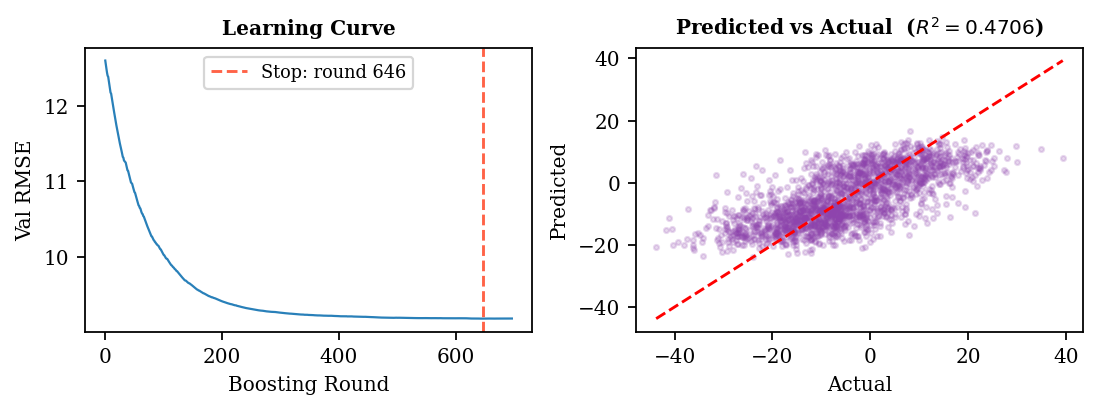
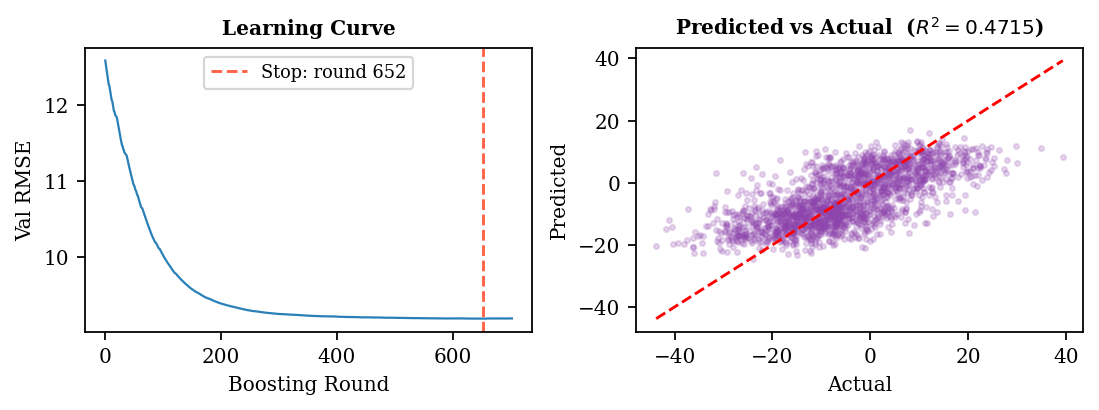
submmiting files

diff --git a/generate_figures.py b/generate_figures.py
@@ -81,7 +81,7 @@ axes[1].scatter(y_val, y_pred, alpha=0.2, s=5, color='#8e44ad')
 lims = [min(y_val.min(), y_pred.min()), max(y_val.max(), y_pred.max())]
 axes[1].plot(lims, lims, 'r--', linewidth=1.3)
 axes[1].set_xlabel('Actual'); axes[1].set_ylabel('Predicted')
-axes[1].set_title(r'Predicted vs Actual  ($R^2=0.4706$)', fontsize=9, fontweight='bold')
+axes[1].set_title(r'Predicted vs Actual  ($R^2=0.4715$)', fontsize=9, fontweight='bold')
 plt.tight_layout(pad=0.8)
 plt.savefig('figC_eval.png', dpi=160, bbox_inches='tight')
 plt.close()
